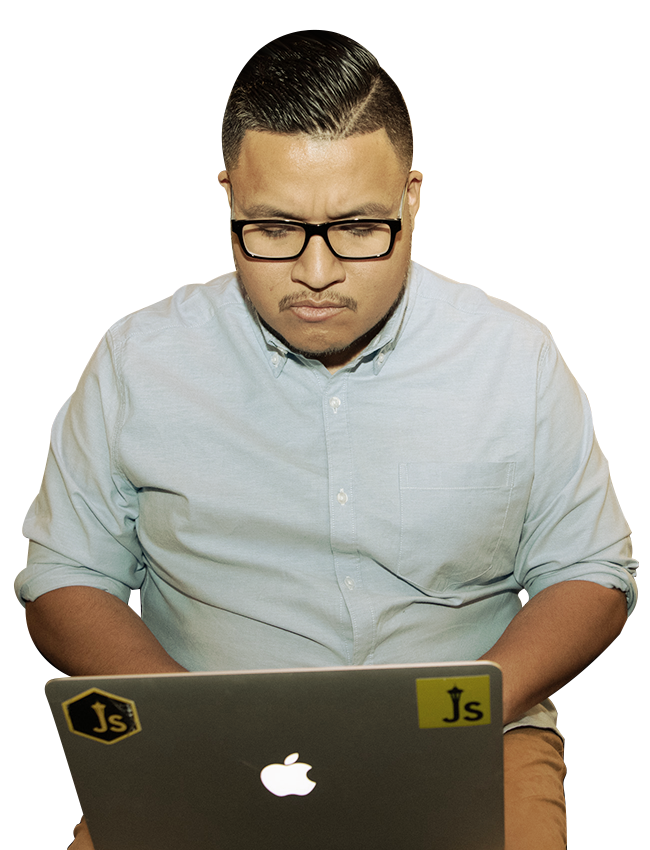
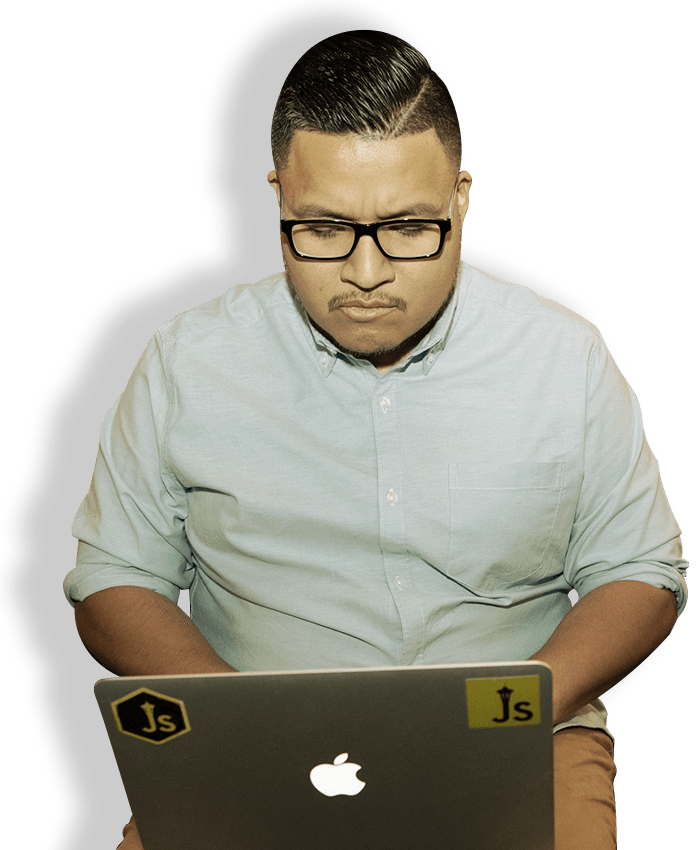
new background image edit

diff --git a/css/index.css b/css/index.css
@@ -30,17 +30,17 @@ hr {
 }
 
 html {
-  background-color: #3a3729;
+  background-color: #3A3729;
 }
 
 .header {
-  height: 850px;
+  height: 700px;
   position: relative;
   display: flex;
 }
 .header__left {
   font-family: "Oswald", sans-serif;
-  width: 70%;
+  width: 76%;
   background-color: #fff95a;
   display: flex;
   align-content: center;
@@ -50,7 +50,7 @@ html {
 .header__left h1,
 .header__left h2 {
   color: #3a3729;
-  font-size: 17.5rem;
+  font-size: 20.5rem;
   letter-spacing: -6px;
   text-transform: uppercase;
   line-height: 0.9;
@@ -62,20 +62,19 @@ html {
   color: #898632;
   padding-left: 294px;
   font-weight: 300;
-  font-size: 10.5rem;
+  font-size: 13.5rem;
 }
 .header__right {
-  width: 30%;
   background-color: #3a3729;
 }
 .header::after {
   position: absolute;
   content: "";
-  width: 650px;
-  height: 850px;
+  width: 570px;
+  height: 700px;
   background-image: url(../img/christian-header-background.png);
   background-size: cover;
-  left: 47%;
+  left: 53%;
 }
 
 /*# sourceMappingURL=index.css.map */

diff --git a/sass/index.scss b/sass/index.scss
@@ -3,13 +3,13 @@
 @import "fonts";
 
 .header {
-  height: 850px;
+  height: 700px;
   position: relative;
   display: flex;
 
   &__left {
     font-family: "Oswald", sans-serif;
-    width: 70%;
+    width: 76%;
     background-color: #fff95a;
     display: flex;
     align-content: center;
@@ -19,7 +19,7 @@
     & h1,
     h2 {
       color: #3a3729;
-      font-size: 17.5rem;
+      font-size: 20.5rem;
       letter-spacing: -6px;
       text-transform: uppercase;
       line-height: .9;
@@ -33,22 +33,21 @@
       color: #898632;
       padding-left: 294px;
       font-weight: 300;
-      font-size: 10.5rem;
+      font-size: 13.5rem;
     }
   }
 
   &__right {
-    width: 30%;
     background-color: #3a3729;
   }
 
   &::after {
     position: absolute;
     content: "";
-    width: 650px;
-    height: 850px;
+    width: 570px;
+    height: 700px;
     background-image: url(../img/christian-header-background.png);
     background-size: cover;
-    left: 47%;
+    left: 53%;
   }
 }

diff --git a/css/global.css b/css/global.css
@@ -1,5 +1,5 @@
 html {
-  background-color: #3a3729;
+  background-color: #3A3729;
 }
 
 /*# sourceMappingURL=global.css.map */

diff --git a/sass/global.scss b/sass/global.scss
@@ -1,3 +1,3 @@
 html {
-  background-color: #3a3729;
+  background-color: #3A3729;
 }
